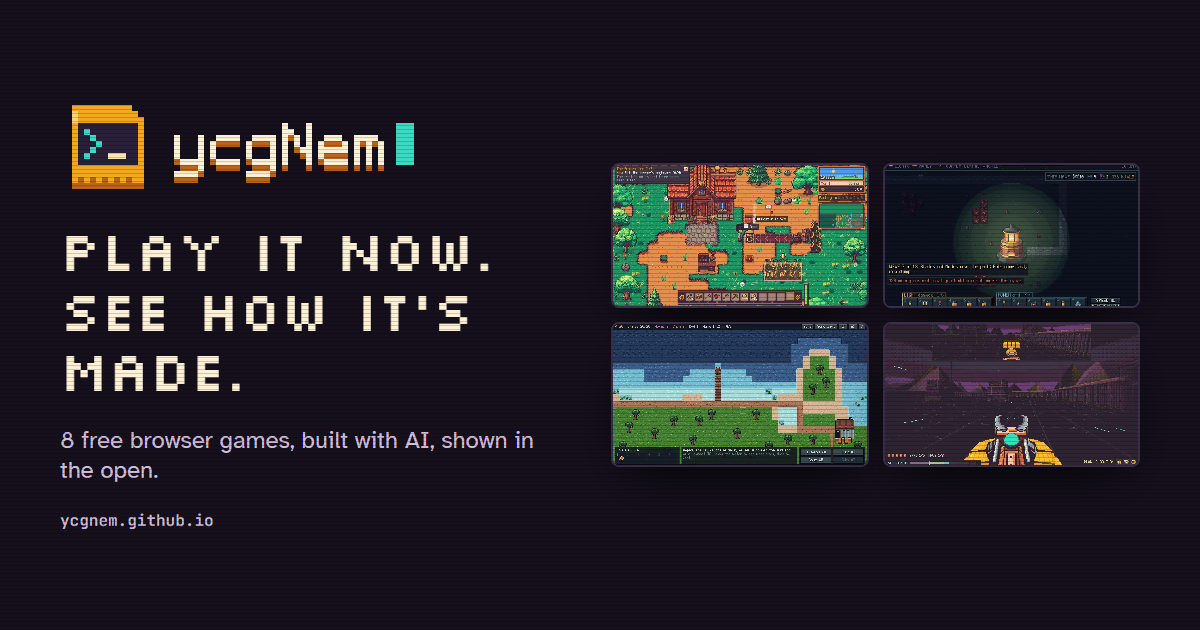
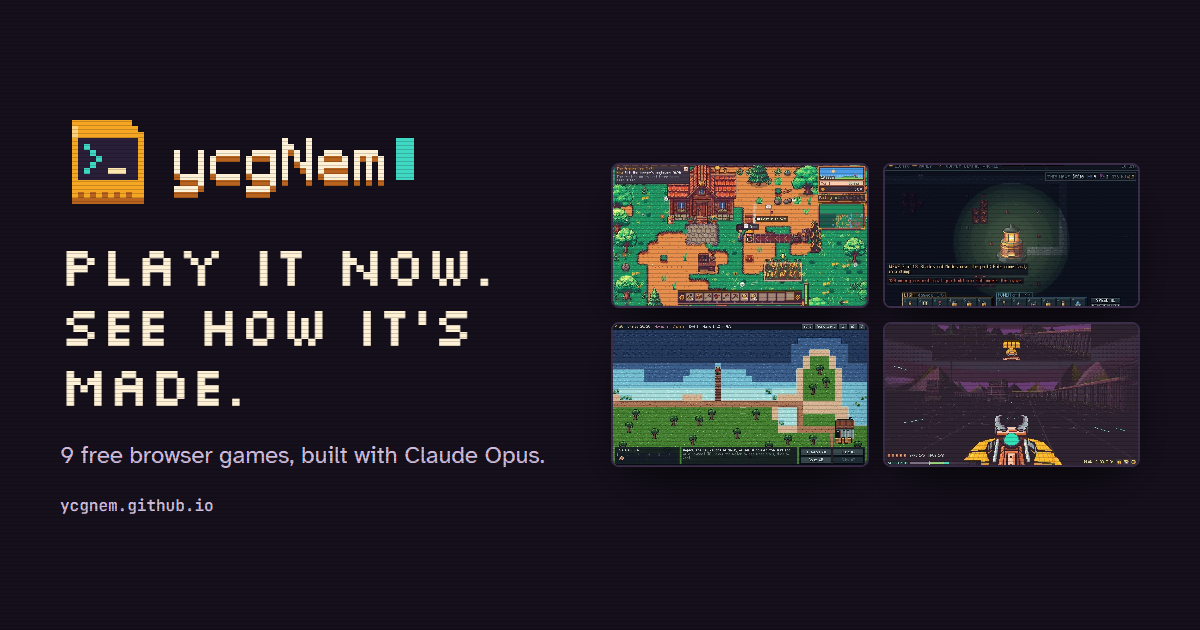
Add Arcwarm, drop the How I build page, relabel statuses
Sprocket & Sprout is Released, Arcwarm and Overgrowth are Playtest,
every other game is Prototype. Claude Opus is credited in the hero,
footer and each game's made-with line.

Changed region(s): [[0.0308, 0.3619, 0.4317, 0.6635], [0.0617, 0.1508, 0.3392, 0.3317], [0.0308, 0.6937, 0.4625, 0.8444]]

diff --git a/assets/css/site.css b/assets/css/site.css
@@ -183,15 +183,6 @@ p { margin: 0; }
 .workshop div p:last-child { color: var(--ink-2); max-width: 56ch; }
 @media (max-width: 720px) { .workshop { grid-template-columns: 1fr; } }
 
-/* ---------- built in the open ---------- */
-.open-grid { display: grid; grid-template-columns: repeat(3, minmax(0, 1fr)); gap: 28px; }
-.open-col { display: grid; gap: 12px; align-content: start; padding-top: 18px; border-top: 2px solid var(--line); }
-.open-col.me { border-color: var(--amber); }
-.open-col.ai { border-color: var(--teal); }
-.open-col.you { border-color: var(--violet); }
-.open-col ul { margin: 0; padding-left: 1.1em; color: var(--ink-2); display: grid; gap: 8px; }
-@media (max-width: 860px) { .open-grid { grid-template-columns: 1fr; } }
-
 /* ---------- devlog list ---------- */
 .posts { display: grid; gap: 0; }
 .post-row {
@@ -272,26 +263,10 @@ p { margin: 0; }
 .post-cover { border-radius: 8px; border: 1px solid var(--line); aspect-ratio: 16 / 9; object-fit: cover; width: 100%; image-rendering: pixelated; }
 .post-body { padding-block: 40px 56px; }
 
-/* ---------- process steps (how I build) ---------- */
-.steps { list-style: none; padding: 0; margin: 0; display: grid; gap: 0; counter-reset: step; }
-.steps li { counter-increment: step; display: grid; grid-template-columns: 4rem minmax(0, 1fr); gap: 20px; padding-block: 22px; border-top: 1px solid var(--line); }
-.steps li::before { content: counter(step); font-family: var(--f-display); font-size: 1.8rem; color: var(--amber); line-height: 1; }
-.steps h3 { margin-bottom: 6px; }
-.steps p { color: var(--ink-2); max-width: 62ch; }
 .split { display: grid; grid-template-columns: repeat(2, minmax(0, 1fr)); gap: 28px; }
 @media (max-width: 760px) { .split { grid-template-columns: 1fr; } }
 .panel { background: var(--bg-2); border: 1px solid var(--line); border-radius: 8px; padding: 24px; display: grid; gap: 12px; align-content: start; }
 .panel ul { margin: 0; padding-left: 1.1em; color: var(--ink-2); display: grid; gap: 6px; }
-.faq { display: grid; gap: 0; }
-.faq details { border-top: 1px solid var(--line); padding-block: 16px; }
-.faq details:last-child { border-bottom: 1px solid var(--line); }
-.faq summary { cursor: pointer; font-weight: 700; font-size: 1.05rem; }
-.faq details p { color: var(--ink-2); margin-top: 10px; max-width: 66ch; }
-.kit { display: flex; flex-wrap: wrap; gap: 16px; align-items: center; }
-.kit a { display: grid; place-items: center; gap: 8px; padding: 18px; background: var(--bg-2); border: 1px solid var(--line); border-radius: 6px; color: var(--ink-2); text-decoration: none; font-size: 0.85rem; }
-.kit a:hover { border-color: var(--teal); }
-.kit img { height: 56px; width: auto; image-rendering: pixelated; }
-.kit a.light { background: #fff1d6; color: #1b1424; }
 
 /* ---------- footer ---------- */
 .site-foot { border-top: 1px solid var(--line); padding-block: 40px; color: var(--ink-3); font-size: 0.9rem; }

diff --git a/build.py b/build.py
@@ -140,7 +140,7 @@ def chip(status):
 
 def layout(path, title, desc, body, image="/assets/brand/og-image.png", kind="website"):
     full_title = f"{title} · ycgNem" if title != "ycgNem" else "ycgNem — free browser games, built in the open"
-    nav = [("/#games", "Games"), ("/devlog/", "Devlog"), ("/how-i-build/", "How I build"), ("/community/", "Community")]
+    nav = [("/#games", "Games"), ("/devlog/", "Devlog"), ("/community/", "Community")]
     nav_html = "".join(
         f'<a href="{h}"{" aria-current=\"page\"" if path.startswith(h) and h != "/#games" else ""}>{t}</a>'
         for h, t in nav)
@@ -188,10 +188,10 @@ def layout(path, title, desc, body, image="/assets/brand/og-image.png", kind="we
   <div class="wrap">
     <img src="/assets/brand/ycgnem-wordmark.svg" alt="ycgNem" width="95" height="22">
     <nav aria-label="Footer">
-      <a href="/devlog/">Devlog</a><a href="/how-i-build/">How I build</a><a href="/community/">Community</a>
+      <a href="/devlog/">Devlog</a><a href="/community/">Community</a>
       <a href="/feed.xml">RSS</a><a href="{e(SITE['socials']['github'])}">GitHub</a>
     </nav>
-    <p>Free games, public code, no ads, no trackers. © <span data-year>{date.today().year}</span> ycgNem</p>
+    <p>Built with Claude Opus. Free games, public code, no ads, no trackers. © <span data-year>{date.today().year}</span> ycgNem</p>
   </div>
 </footer>
 <script src="/assets/js/site.js" defer></script>
@@ -260,10 +260,10 @@ def page_index(posts, updated):
     <div class="hero-copy">
       <p class="eyebrow">Solo dev · {len(GAMES)} games · free in your browser</p>
       <h1>Play it now. See how it's made.</h1>
-      <p class="lede">I'm ycgNem, a gamer making the games I want to play, with AI on the crew. Every game here is free in your browser. Every repo is public, every number is on screen, and I'll tell you exactly what the AI did.</p>
+      <p class="lede">I'm ycgNem, a gamer making the games I want to play, built with Claude Opus. Every game here is free in your browser, and every repo is public.</p>
       <div class="hero-actions">
         <a class="btn btn-primary" href="/games/{featured['id']}/#play">{PLAY_ICON}Play {e(featured['title'])}</a>
-        <a class="btn btn-ghost" href="/how-i-build/">How I build with AI</a>
+        <a class="btn btn-ghost" href="{e(SITE['socials']['github'])}">Source on GitHub</a>
       </div>
       <ul class="proof">
         <li><b>{len(playable)}</b> playable now</li>
@@ -289,31 +289,6 @@ def page_index(posts, updated):
   </div>
 </section>
 
-<section class="band">
-  <div class="wrap">
-    <div class="band-head">
-      <div><p class="eyebrow">Built in the open</p><h2>Who does what</h2></div>
-      <a class="btn btn-ghost btn-sm" href="/how-i-build/">The full process</a>
-    </div>
-    <div class="open-grid">
-      <div class="open-col me"><h3>What I do</h3><ul>
-        <li>Decide what the game is and why it's fun</li>
-        <li>Write the design docs: the loop, the numbers, the feel</li>
-        <li>Play every build and say what stays</li>
-        <li>Own every decision and every number</li></ul></div>
-      <div class="open-col ai"><h3>What the AI does</h3><ul>
-        <li>Claude Code writes most of the code, milestone by milestone</li>
-        <li>PixelLab and Claude make much of the pixel art</li>
-        <li>Runs the tests and balance sims I ask for</li>
-        <li>Each game page lists exactly which tools it used</li></ul></div>
-      <div class="open-col you"><h3>What you can check</h3><ul>
-        <li>Every repo is public, design docs included</li>
-        <li>Every update ships with patch notes</li>
-        <li>Odds, damage and rates are shown in game</li>
-        <li>Feedback gets a reply</li></ul></div>
-    </div>
-  </div>
-</section>
 
 <section class="band">
   <div class="wrap">
@@ -436,73 +411,6 @@ def page_post(p):
     return layout(f"/devlog/{p['slug']}/", p["title"], p["summary"], body, p["cover"], "article")
 
 
-def page_how():
-    body = """
-<div class="wrap">
-  <header class="post-head">
-    <p class="eyebrow">How I build</p>
-    <h1>Made with AI, shown in the open</h1>
-    <p class="lede">A lot of people are tired of AI being used to fake effort. Fair. So here's exactly how my games get made, and how you can check every claim.</p>
-  </header>
-
-  <section class="band" style="padding-top:24px">
-    <h2 style="margin-bottom:20px">The process</h2>
-    <ol class="steps">
-      <li><div><h3>A design doc first</h3><p>Every game starts as a written plan: what the player does every minute, what should feel good, and the math behind it. Damage, odds and rates are derived on paper before any code exists. The docs live in each repo.</p></div></li>
-      <li><div><h3>Built in milestones</h3><p>Claude Code builds one milestone at a time from those docs: a foundation, a playable slice, then content. Each milestone has a gate it must pass before the next one starts.</p></div></li>
-      <li><div><h3>I play it and decide</h3><p>I play every build. What stays, what gets cut and what feels wrong are my calls, and every big one is written down in the repo's DECISIONS.md with the reason.</p></div></li>
-      <li><div><h3>Measured, not guessed</h3><p>Balance gets checked with simulations. Trotline's season was played by a reference strategy hundreds of times and resized when it won too often. Carpet Joint replays the night 500 times to show you the odds.</p></div></li>
-      <li><div><h3>Shipped with notes</h3><p>Every update goes live in the browser for free, with patch notes saying what changed and what's still weak.</p></div></li>
-    </ol>
-  </section>
-
-  <section class="band">
-    <div class="split">
-      <div class="panel" style="border-color:var(--teal)">
-        <h3>The tools</h3>
-        <ul>
-          <li><strong>Claude Code</strong> (Anthropic) writes most of the code</li>
-          <li><strong>PixelLab</strong> generates much of the pixel art</li>
-          <li><strong>Claude</strong> also draws sprites pixel by pixel in Python scripts</li>
-          <li><strong>TypeScript, Canvas, Three.js, Vite</strong>: no game engine</li>
-          <li><strong>GitHub Pages</strong> hosts every game for free</li>
-        </ul>
-      </div>
-      <div class="panel" style="border-color:var(--amber)">
-        <h3>What stays human</h3>
-        <ul>
-          <li>The ideas, and the taste that picks between them</li>
-          <li>The numbers and why they're those numbers</li>
-          <li>Every playtest and every keep-or-cut call</li>
-          <li>The replies when you leave feedback</li>
-        </ul>
-      </div>
-    </div>
-  </section>
-
-  <section class="band">
-    <h2 style="margin-bottom:20px">Questions people ask</h2>
-    <div class="faq">
-      <details><summary>Isn't this just AI slop?</summary><p>Slop is stuff nobody played before shipping. Play one of these for ten minutes and judge for yourself. The design docs, the decisions and the playtesting are the work, and you can read all of it in the repos.</p></details>
-      <details><summary>Did you write the code?</summary><p>Mostly no. Claude Code writes most of it from my docs and my feedback. I'm not going to claim otherwise.</p></details>
-      <details><summary>Is the art AI?</summary><p>Much of it, yes. Each game page says how its art was made. Some sprites come from PixelLab; some are drawn pixel by pixel by Claude in a script.</p></details>
-      <details><summary>Why are the games free?</summary><p>Because I'd rather have players than a price tag right now. If a game earns a bigger version later, the browser version stays free.</p></details>
-      <details><summary>Can I use your code?</summary><p>Every repo is public on GitHub so you can read how it works. Check each repo for its license before reusing anything.</p></details>
-    </div>
-  </section>
-
-  <section class="band">
-    <h2 style="margin-bottom:12px">Press kit</h2>
-    <p class="muted" style="margin-bottom:20px">Logos for anyone writing about the games. Screenshots are on each game page.</p>
-    <div class="kit">
-      <a href="/assets/brand/ycgnem-lockup.svg"><img src="/assets/brand/ycgnem-lockup.svg" alt="">Lockup (SVG)</a>
-      <a class="light" href="/assets/brand/ycgnem-lockup-dark.svg"><img src="/assets/brand/ycgnem-lockup-dark.svg" alt="">On light (SVG)</a>
-      <a href="/assets/brand/ycgnem-icon.svg"><img src="/assets/brand/ycgnem-icon.svg" alt="">Icon (SVG)</a>
-      <a href="/assets/brand/avatar-1024.png"><img src="/assets/brand/avatar-1024.png" alt="">Avatar (PNG)</a>
-    </div>
-  </section>
-</div>"""
-    return layout("/how-i-build/", "How I build", "Exactly how ycgNem's games get made with AI, and how to check every claim.", body)
 
 
 def page_community():
@@ -595,11 +503,10 @@ def main():
     write("devlog/index.html", page_devlog(posts))
     for p in posts:
         write(f"devlog/{p['slug']}/index.html", page_post(p))
-    write("how-i-build/index.html", page_how())
     write("community/index.html", page_community())
     write("404.html", page_404())
     write("feed.xml", feed(posts))
-    urls = ["/", "/devlog/", "/how-i-build/", "/community/"] + [f"/games/{g['id']}/" for g in GAMES] + [f"/devlog/{p['slug']}/" for p in posts]
+    urls = ["/", "/devlog/", "/community/"] + [f"/games/{g['id']}/" for g in GAMES] + [f"/devlog/{p['slug']}/" for p in posts]
     write("sitemap.xml", '<?xml version="1.0" encoding="UTF-8"?>\n<urlset xmlns="http://www.sitemaps.org/schemas/sitemap/0.9">'
           + "".join(f"<url><loc>{BASE}{u}</loc></url>" for u in urls) + "</urlset>\n")
     write("robots.txt", f"User-agent: *\nAllow: /\nSitemap: {BASE}/sitemap.xml\n")

diff --git a/content/devlog/2026-10-13-hello.md b/content/devlog/2026-10-13-hello.md
@@ -7,14 +7,14 @@ cover: /assets/games/sprocket-and-sprout/cover.webp
 
 I've played games my whole life. This year I started making them.
 
-This site is where all of it lives: eight games, all playable right now in your browser, for free. No download, no account. Click a game and press start.
+This site is where all of it lives: nine games, all playable right now in your browser, for free. No download, no account. Click a game and press start.
 
 ## How I make them
 
 I build with AI, and I'm not going to hide that. Here's what that actually means:
 
 - **I decide what the game is.** Every game starts as a design doc: the loop, the numbers, what should feel good. I write what I want and why.
-- **Claude Code writes most of the code.** It works in milestones from those docs. I play every build, decide what stays, and send it back when something feels wrong.
+- **Claude Opus writes most of the code.** It works in milestones from those docs. I play every build, decide what stays, and send it back when something feels wrong.
 - **Art is a mix.** Some sprites come from PixelLab, an AI pixel-art tool. Some are drawn pixel by pixel by Claude in a script. Each game page says which.
 - **The numbers are mine to own.** If a tower does 6 kJ/s or a bet has a 16.7% house edge, that number is on screen, and I can tell you why it's that number.
 

diff --git a/README.md b/README.md
@@ -7,6 +7,7 @@ The home of ycgNem's games: free browser games built with AI and shown in the op
 | Game | Play |
 |---|---|
 | Sprocket & Sprout | https://ycgnem.github.io/games/sprocket-and-sprout/ |
+| Arcwarm | https://ycgnem.github.io/games/arcwarm/ |
 | Slipstream Salvager | https://ycgnem.github.io/games/slipstream-salvager/ |
 | Slipstream Salvager 3D | https://ycgnem.github.io/games/slipstream-salvager-3d/ |
 | Last Watt | https://ycgnem.github.io/games/last-watt/ |
